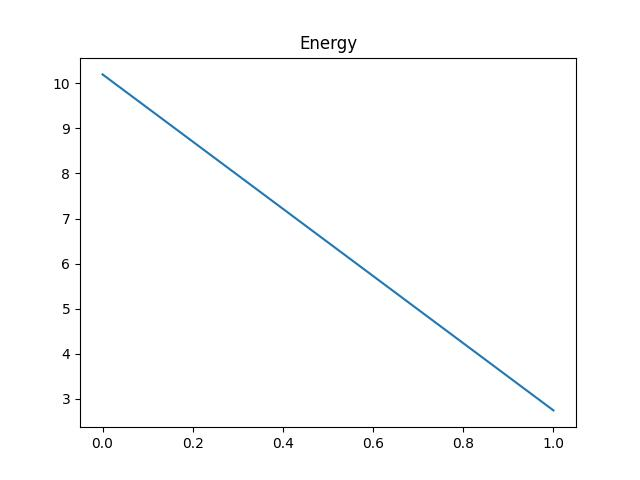
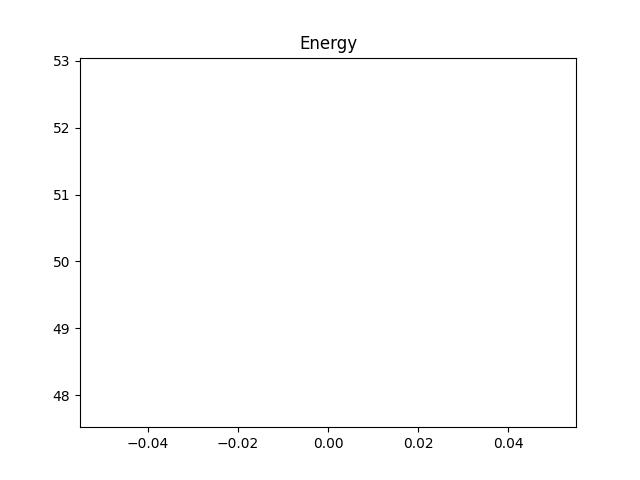
y

diff --git a/main_file.py b/main_file.py
@@ -43,7 +43,7 @@ def your_compute_objective_function(domain_omega, u, spacestep):
         for j in range(0, N-1):
             if domain_omega[i, j] == _env.NODE_INTERIOR or domain_omega[i+1, j] == _env.NODE_INTERIOR or domain_omega[i, j+1] == _env.NODE_INTERIOR or domain_omega[i+1, j+1] == _env.NODE_INTERIOR:
                 energy += (numpy.abs(u[i, j])**2 + numpy.abs(u[i+1, j])**2 +
-                           numpy.abs(u[i, j+1])**2 + numpy.abs(u[i+1, j+1])**2)*spacestep_x*spacestep_y/4
+                           numpy.abs(u[i, j+1])**2 + numpy.abs(u[i+1, j+1])**2)*spacestep_x*spacestep_x/4
 
     return energy
 
@@ -429,13 +429,13 @@ def optimisation_multiple_freq(domain_omega, spacestep, wavenumbers, f, f_dir, f
 
             # print('4. computing parametric gradient')
 
-            grad = grad + numpy.real(Alpha*u*q)
+            grad = grad - numpy.real(Alpha*u*q)
         ene = energy[k]
         print(ene)
         while ene >= energy[k] and mu > 10 ** -5:
             # print('dans la deuxième boucle de ', k,'on est à ',c)
             # print('    a. computing gradient descent')
-            chi = compute_gradient_descent(
+            chi = descente_grad.compute_gradient_descent(
                 chi, grad, domain_omega, mu)
             # chi=compute_gradient_descent(chi, grad, domain_omega, mu)
 
@@ -508,7 +508,7 @@ if __name__ == '__main__':
     # -- Fell free to modify the function call in this cell.
     # ----------------------------------------------------------------------
     # -- set parameters of the geometry
-    N = 50  # number of points along x-axis
+    N = 100  # number of points along x-axis
     M = 2 * N  # number of points along y-axis
     level = 2  # level of the fractal
     spacestep = 1.0 / N  # mesh size
@@ -552,7 +552,7 @@ if __name__ == '__main__':
     chi = preprocessing.set2zero(chi, domain_omega)
     print(chi.shape)
     # -- define absorbing material
-    Alpha = 10.0 - 10.0 * 1j
+    Alpha = 50.0 - 50.0 * 1j
     # -- this is the function you have written during your project
     # import compute_alpha
     # Alpha = compute_alpha.compute_alpha(...)
@@ -585,7 +585,7 @@ if __name__ == '__main__':
     # ----------------------------------------------------------------------
     # -- compute optimization
     # energy = numpy.zeros((100+1, 1), dtype=numpy.float64)
-    wavenumbers = [1, 3.7, 5]
+    wavenumbers = [3.7]
     chi, energy, u, grad = optimisation_multiple_freq(domain_omega, spacestep, wavenumbers, f, f_dir, f_neu, f_rob,
                                                       beta_pde, alpha_pde, alpha_dir, beta_neu, beta_rob, alpha_rob,
                                                       Alpha, mu, chi, V_obj, beta)
